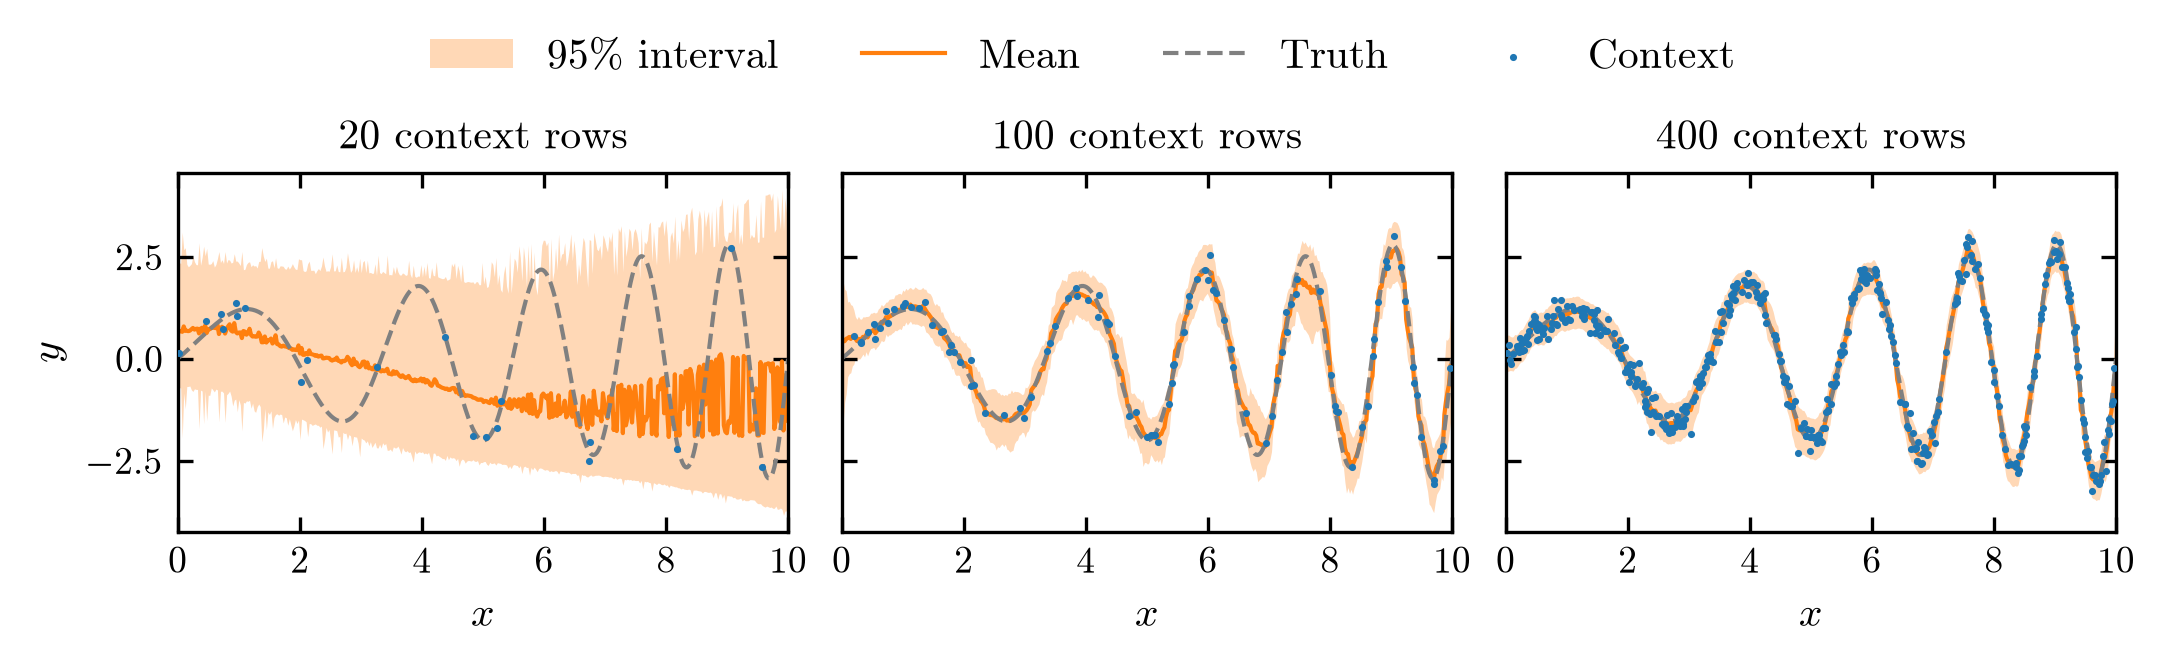
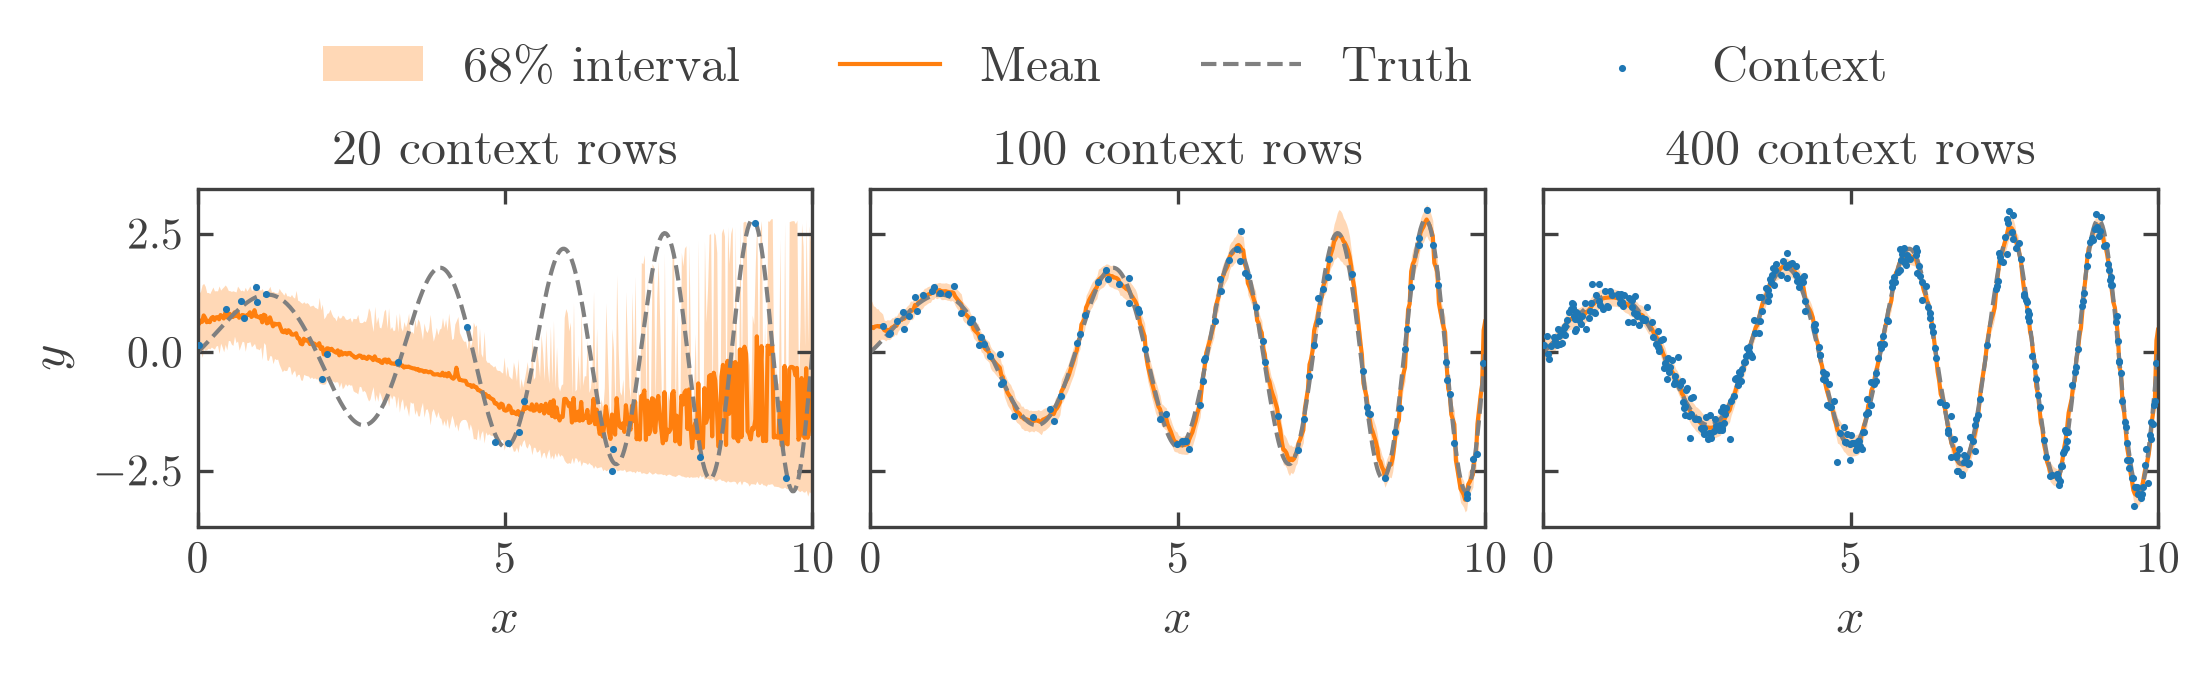
Draw the docs figures for the site, with TabPFN-3.5 and 68% intervals
The demo and the context-size figure now use TabPFN-3.5 at LAZY's
defaults and show the central 68% interval. The figures are sized for
the Read the Docs content column (7.25 in shown at about 696 px, so 12 pt
type is the page's 16 px body text), drawn in the theme's text color
#404040, and saved with transparent backgrounds so they sit on the page.

diff --git a/docs/figures/make_figures.py b/docs/figures/make_figures.py
@@ -11,9 +11,9 @@
 # # The documentation's figures
 #
 # Every figure in the documentation that shows a model's output is made here,
-# so each one can be remade from the code that the page shows. The models are
-# small enough at these sizes to run on a CPU. Running the script rewrites
-# every PNG in `docs/figures/figs/`:
+# so each one can be remade from the code that the page shows. The models run
+# at LAZY's defaults (TabPFN-3.5), which wants a GPU. Running the script
+# rewrites every PNG in `docs/figures/figs/`:
 #
 #     python docs/figures/make_figures.py
 
@@ -32,12 +32,18 @@ from lazy import datasets
 
 FIGS = pathlib.Path(__file__).resolve().parent / "figs"
 
-# Figure defaults for AASTeX (AJ).
-COLUMN_WIDTH = 242.26653 / 72.27  # in inches
-TEXT_WIDTH = 513.11743 / 72.27
-SMALL_SIZE = 9  # in pts
-NORMAL_SIZE = 10
-BIG_SIZE = 12
+# Figure defaults for the documentation site, not a journal. The Read the
+# Docs theme sets body text at 16 px in a content column about 696 px wide
+# (800 px less two 3.236 em gutters), and the figures fill that column, so a
+# 7.25 in figure is shown at 96 px per inch and 12 pt type lands at 16 px,
+# the size of the text around it.
+TEXT_WIDTH = 7.25  # in inches
+SMALL_SIZE = 10.5  # in pts; 14 px on the page
+NORMAL_SIZE = 12  # 16 px, the body text
+BIG_SIZE = 13.5  # 18 px
+# The theme's text color; the background is left transparent so the
+# figures sit on the page's own (#fcfcfc).
+INK = "#404040"
 SERIF_FALLBACKS = ["CMU Serif", "Latin Modern Roman", "cmr10"]
 
 RC_PARAMS = {
@@ -53,7 +59,14 @@ RC_PARAMS = {
     "xtick.direction": "in",
     "ytick.direction": "in",
     "legend.fontsize": NORMAL_SIZE,
-    "figure.facecolor": "w",
+    "figure.facecolor": "none",
+    "axes.facecolor": "none",
+    "savefig.transparent": True,
+    "text.color": INK,
+    "axes.labelcolor": INK,
+    "axes.edgecolor": INK,
+    "xtick.color": INK,
+    "ytick.color": INK,
     "figure.dpi": 300,
     "mathtext.fontset": "cm",
     "axes.formatter.use_mathtext": True,
@@ -64,14 +77,14 @@ plt.rcParams.update(RC_PARAMS)
 # ## Filling in a curve
 #
 # The landing page's demo, as it appears there: a noisy chirp with three
-# chunks cut out, and TabPFN-3.5-fast's mean and 68% interval in the gaps.
+# chunks cut out, and TabPFN-3.5's mean and 68% interval in the gaps.
 
 # %%
 X_train, X_test, y_train, y_test = datasets.make_chirp(random_state=0)
 
 model = lazy.LazyModel(
     "tabpfn",
-    version="v3.5-fast",
+    version="v3.5",
     n_estimators=8,
     transforms="auto",
     feature_shuffle=True,
@@ -202,7 +215,7 @@ ax.text(
     ha="right",
     va="center",
 )
-arrow = dict(arrowstyle="-|>", color="k", lw=1)
+arrow = dict(arrowstyle="-|>", color=INK, lw=1)
 ax.annotate("", xy=(4.0, 1.9), xytext=(2.75, 1.9), arrowprops=arrow)
 ax.add_patch(
     mpl.patches.FancyBboxPatch(
@@ -211,7 +224,7 @@ ax.add_patch(
         1.4,
         boxstyle="round,pad=0.05",
         facecolor="0.92",
-        edgecolor="k",
+        edgecolor=INK,
         lw=1,
     )
 )
@@ -239,7 +252,7 @@ for i, (loc, scale) in enumerate([(-0.8, 0.5), (0.4, 0.9), (1.0, 0.35)]):
         lw=0,
     )
     ax.plot(xs, y_base + 0.55 * pdf / pdf.max(), c="C1", lw=1)
-    ax.plot([7.5, 9.7], [y_base, y_base], c="k", lw=0.5)
+    ax.plot([7.5, 9.7], [y_base, y_base], c=INK, lw=0.5)
 ax.text(8.6, 3.35, r"$p(y \mid x, \mathrm{context})$", ha="center", va="bottom")
 fig.savefig(FIGS / "tfm_schematic.png", bbox_inches="tight", dpi=300)
 plt.close(fig)
@@ -315,9 +328,9 @@ fig, axes = plt.subplots(
 )
 for ax, size in zip(axes, sizes, strict=True):
     rows = np.sort(rng.choice(len(x_full), size, replace=False))
-    model = lazy.LazyModel("tabpfn", version="v3.5-fast")
+    model = lazy.LazyModel("tabpfn")
     model.fit(x_full[rows], y_full[rows])
-    low, high = model.predict_interval(x_grid, coverage=0.95).T
+    low, high = model.predict_interval(x_grid, coverage=0.68).T
     ax.fill_between(
         x_grid[:, 0],
         low,
@@ -325,7 +338,7 @@ for ax, size in zip(axes, sizes, strict=True):
         color="C1",
         alpha=0.3,
         lw=0,
-        label="95% interval",
+        label="68% interval",
     )
     ax.plot(
         x_grid[:, 0],
@@ -346,6 +359,7 @@ for ax, size in zip(axes, sizes, strict=True):
         rasterized=True,
     )
     ax.set_title(f"{size:,} context rows")
+    ax.set_xticks([0, 5, 10])
     ax.set_xlabel(r"$x$")
     ax.set_xlim(0, 10)
 axes[0].set_ylabel(r"$y$")

diff --git a/docs/index.md b/docs/index.md
@@ -35,10 +35,11 @@ As a quick demonstration, we fill in the missing parts of a noisy curve.
 {func}`~lazy.datasets.make_chirp` generates a sinusoid whose amplitude and
 frequency both grow with $x$, adds Gaussian noise to it and deletes three
 chunks of the data, which become the test set. We then give the remaining
-points to TabPFN-3.5-fast as its training data and predict the mean and the
-central 68% interval of $y$ in each gap. For clarity, we write out every
-hyperparameter at its default value, so `lazy.LazyModel("tabpfn",
-version="v3.5-fast")` gives the same model.
+points to TabPFN-3.5 as its training data and predict the mean and the central
+68% interval of $y$ in each gap. For clarity, we write out every
+hyperparameter at its default value, so `lazy.LazyModel()` gives the same
+model. TabPFN-3.5 is best run on a GPU, though a context this small also runs
+on a CPU (see {doc}`installation`).
 
 ```python
 import lazy
@@ -48,7 +49,7 @@ X_train, X_test, y_train, y_test = datasets.make_chirp(random_state=0)
 
 model = lazy.LazyModel(
     "tabpfn",
-    version="v3.5-fast",
+    version="v3.5",
     n_estimators=8,
     transforms="auto",
     feature_shuffle=True,
@@ -69,16 +70,17 @@ y_low, y_high = model.predict_interval(X_test, coverage=0.68).T
 ```
 
 ```{figure} figures/figs/chirp_demo.png
-:alt: A noisy chirp with three gaps, filled by TabPFN-3.5-fast's mean and 68% interval.
+:alt: A noisy chirp with three gaps, filled by TabPFN-3.5's mean and 68% interval.
 :width: 100%
 
-The noisy chirp generated by `make_chirp` and TabPFN-3.5-fast's predictions in
-the three gaps. The blue line shows the training data, the gray dashed line
-the true curve in the gaps, the orange points the mean of each predicted
+The noisy chirp generated by `make_chirp` and TabPFN-3.5's predictions in the
+three gaps. The blue line shows the training data, the gray dashed line the
+true curve in the gaps, the orange points the mean of each predicted
 distribution and the orange band its central 68% interval. We observe that the
-mean tracks the shape of the true curve in each gap, and that the true curve
-lies within the 68% interval at 93% of the test points (the interval describes
-the noisy targets, so it is wider than the uncertainty on the curve itself).
+mean tracks the true curve in each gap, most closely in the first two, and
+that the true curve lies within the 68% interval everywhere in the three gaps
+(the interval describes the noisy targets, so it is wider than the uncertainty
+on the curve itself).
 ```
 
 The model was never trained on this curve. `fit` stores the training rows

diff --git a/docs/tfm.md b/docs/tfm.md
@@ -90,22 +90,20 @@ This view also tells us what to expect from a TFM in practice. Since the
 output approximates a posterior predictive distribution, it should be broad
 when the context holds little information about a query and narrow when it
 holds a lot. Figure 3 shows this for the noisy curve from the landing page:
-with 20 context rows TabPFN-3.5-fast cannot follow the oscillations, and its
-95% interval is wide enough to contain most of them, while with 100 context
-rows it follows the oscillations but misses some of the peaks, and with 400
-context rows it follows the true curve closely and its interval narrows to
-roughly the spread of the noise. The model and its weights are the same in all
-three panels.
+with 20 context rows TabPFN-3.5 cannot follow the oscillations and its 68%
+interval is broad, while with 100 and 400 context rows it follows the true
+curve closely and its interval narrows to roughly the spread of the noise. The
+model and its weights are the same in all three panels.
 
 ```{figure} figures/figs/context_size.png
-:alt: Three panels showing TabPFN-3.5-fast's mean and 95% interval for a noisy curve given 20, 100 and 400 context points.
+:alt: Three panels showing TabPFN-3.5's mean and 68% interval for a noisy curve given 20, 100 and 400 context points.
 :width: 100%
 
-**Figure 3.** TabPFN-3.5-fast's predictions for the noisy chirp of
+**Figure 3.** TabPFN-3.5's predictions for the noisy chirp of
 {func}`~lazy.datasets.make_chirp` given 20, 100 and 400 context rows drawn at
 random. The blue points show the context, the gray dashed line the true curve,
 the orange line the mean of each predicted distribution and the orange band
-its central 95% interval. We observe that the predicted distributions narrow
+its central 68% interval. We observe that the predicted distributions narrow
 and follow the true curve as the context grows, with no weights changed.
 ```
 
